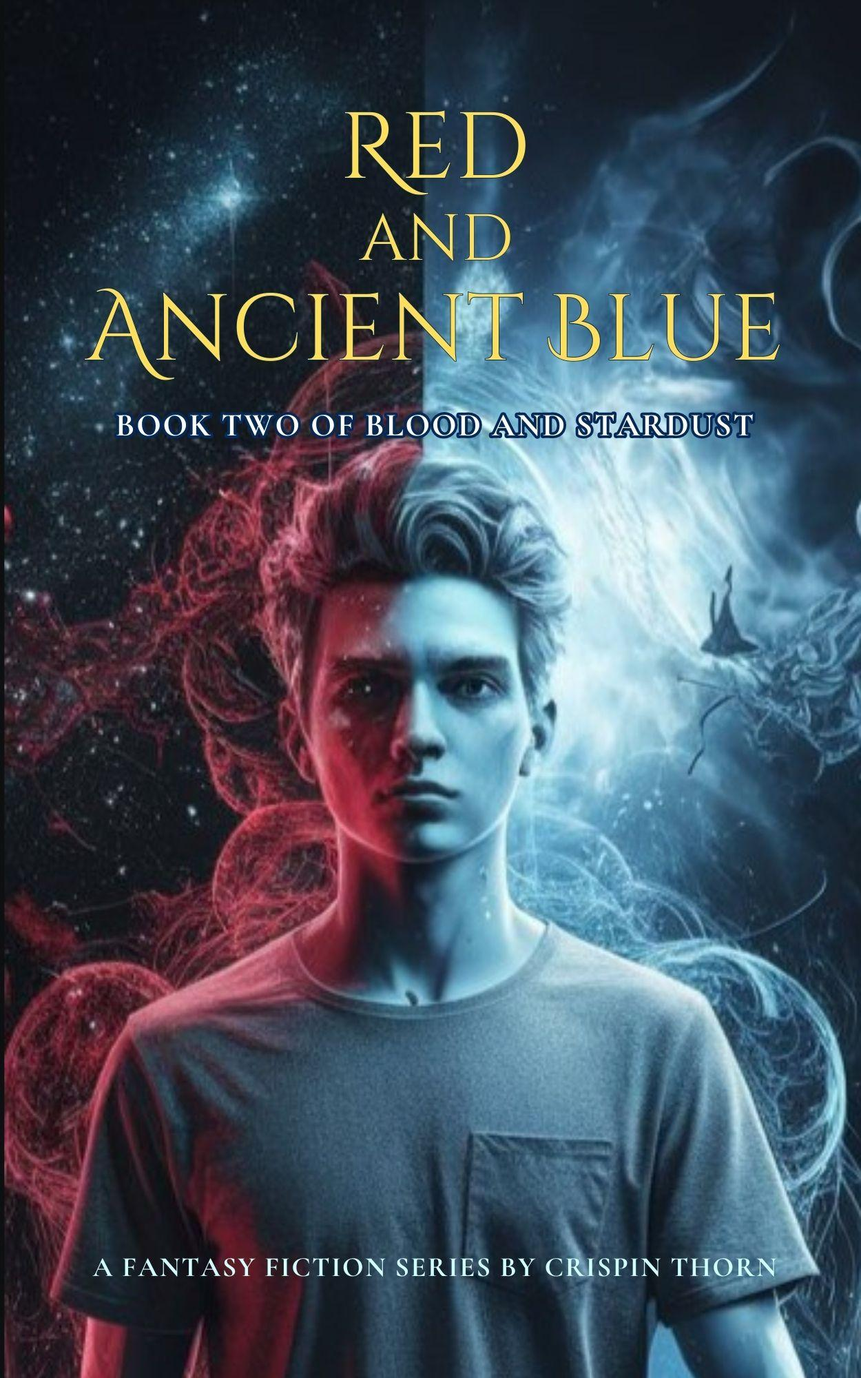
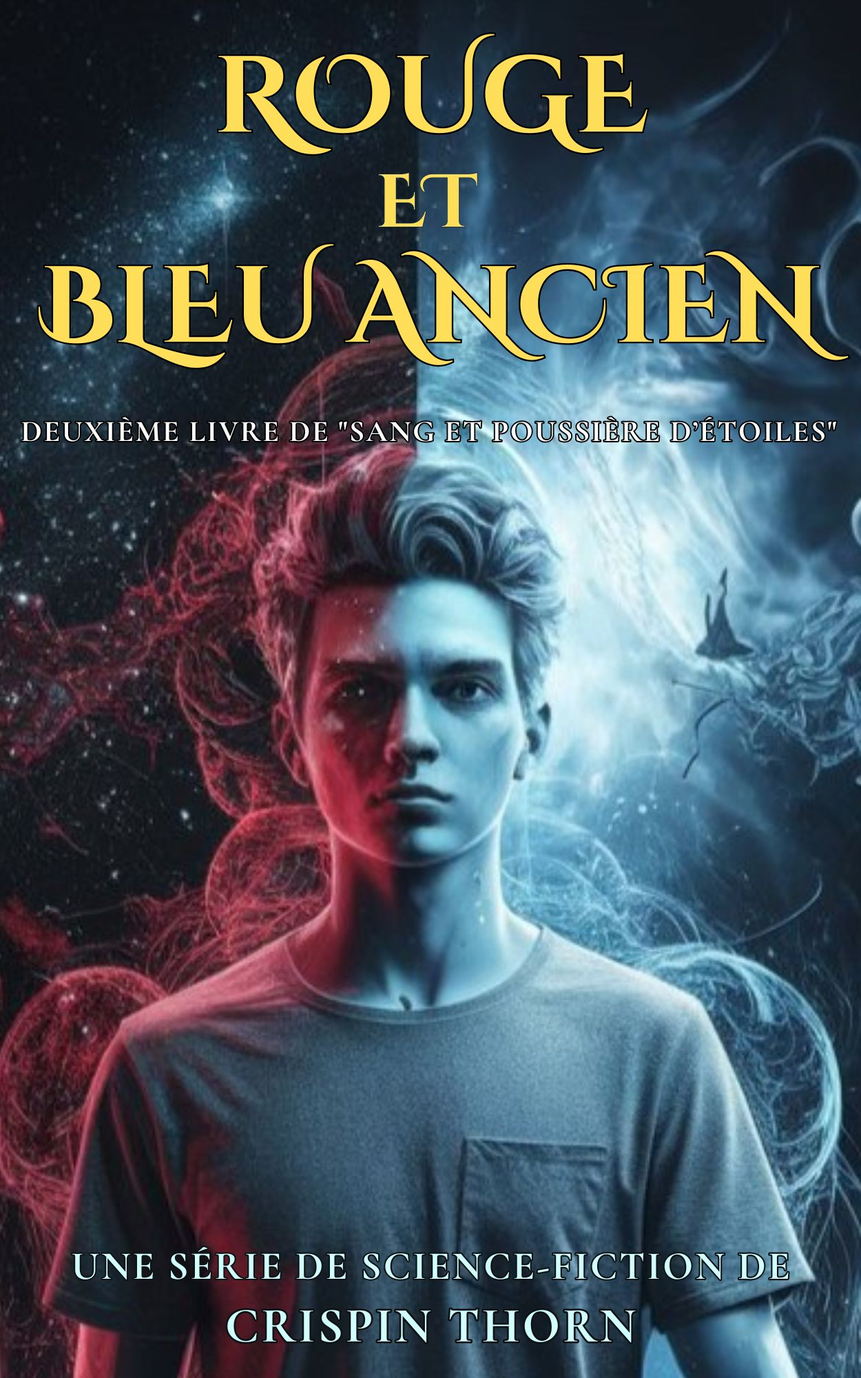
Оправих и френския

diff --git a/public/books/series/blood-and-stardust/fr/red-and-ancient-blue/description.md b/public/books/series/blood-and-stardust/fr/red-and-ancient-blue/description.md
@@ -1,27 +1,48 @@
-**_Red and Ancient Blue_** – the second book in **Crispin Thorn**'s sci-fi series *Blood and Stardust* – dives even deeper into themes of identity, civilizational clash, and survival amidst the complex relationships between **Lemurians**, **vampires**, and **humans**.
+# *Rouge et Bleu Ancien* – Le deuxième tome de la série de science-fiction *Sang et Poussière d'Étoiles* de Crispin Thorn
 
-**Timothy Harris**, an ordinary teenage boy from the small town of **Silverpine Hollow**, at first glance, discovers he possesses extraordinary abilities — and is the heir to the ancient **Lemurian** race. With the help of the enigmatic **Thalia**, a Lemurian herself, he begins training to master his newfound powers and understand his place in a world where danger lurks on all sides.
-
-As Timothy tries to balance his school life with his new role, the looming threat of the ancient alien **Xilarian** race grows ever closer. **Vampire clans** begin to take notice of him. **Lord Sebastian Mornau**, an ambitious vampire leader, sees Timothy as either a threat or a tool to further his own ambitions. Meanwhile, **Radu Vladislav**, Chairman of the Vampire Council, becomes entangled in political intrigues that threaten the fragile balance between the races.
-
-Allies like **Arya** — a Lemurian with a pivotal role in the saga — and **Peter Hammett** help Timothy undergo the ancient **Ka’rals’arn** ritual. This transformation will turn him into an **Archon**: a being capable of uniting Lemurians, vampires, and humans against their common enemy.
+*Rouge et Bleu Ancien* plonge encore plus profondément dans les thèmes de **l'identité**, du **choc des civilisations** et de la **lutte pour la survie** au cœur des relations complexes entre **Lémuriens**, **vampires** et **humains**.
 
 ---
 
-## Why Choose *Red and Ancient Blue*?
+### Un héritage ancien, un destin hors du commun
 
-### An Original and Multilayered Story  
-The plot blends identity, coming-of-age, and cultural conflict, expanding the universe of the first book with new characters, races, and tensions.
+**Timothy Harris**, en apparence un adolescent ordinaire du petit village de **Silverpine Hollow**, découvre qu'il possède des **capacités exceptionnelles** et qu'il est l'héritier de l'**ancienne race lémurienne**. 
 
-### Unforgettable Characters  
-**Timothy Harris** is a complex and charismatic protagonist on a journey of self-discovery filled with emotional and moral challenges. Strong female characters like **Thalia**, **Arya**, and the vampire **Serina** stand out with their depth and individuality.
-
-### Engaging Sci-Fi Elements  
-**Lemurian technology**, ancient rituals, and tense interactions with vampire clans build a believable yet mesmerizing world full of mystery and stakes.
-
-### Memorable Antagonists  
-**Sebastian Mornau** and **Serina Velmore** are more than villains — they’re multidimensional figures with personal goals and inner conflict. Alongside **Radu Vladislav**’s political maneuvering, they create a web of tension that challenges every side.
+Avec l'aide de la mystérieuse **Thalia**, également Lémurienne, il entame un entraînement pour **maîtriser ses nouveaux pouvoirs** et comprendre sa place dans un monde où les dangers rôdent de partout.
 
 ---
 
-*Red and Ancient Blue* delivers a gripping, immersive narrative that expands the world of *Blood and Stardust*, enriching it with new emotional and dramatic dimensions.
+### Entre adolescence, guerre interstellaire et tensions vampiriques
+
+Alors que Timothy tente de concilier **sa vie scolaire** et son **nouveau rôle**, la menace de l'ancienne race extraterrestre **Xilarien** plane sur lui, tandis que les **clans vampires** tournent leur attention vers lui.
+
+- **Lord Sébastian Mornaü**, un ambitieux leader vampire, le perçoit comme une menace… ou comme un outil pour ses propres desseins.  
+- **Radu Vladislav**, le président du Conseil des Vampires, est pris dans des **intrigues politiques complexes** qui menacent l'équilibre fragile entre les races.
+
+---
+
+### Le rituel Ka'rals'arn : une transformation décisive
+
+Des alliés comme **Arya** – une Lémurienne jouant un rôle clé dans la saga – et **Peter Hammett** aideront Timothy à traverser l'ancien **rituel Ka'rals'arn**. Cette transformation fera de lui un **Archonte** – une créature capable d'unir Lémuriens, vampires et humains contre leur ennemi commun.
+
+---
+
+## Pourquoi choisir *Rouge et Bleu Ancien* ?
+
+- **Une histoire originale et multicouche**  
+  L'intrigue mêle des thèmes d'identité, de maturation et de conflit culturel, tout en élargissant l'univers du premier tome avec de **nouveaux personnages**, **races** et **conflits**.
+
+- **Des personnages inoubliables**  
+  *Timothy Harris* est un protagoniste **complexe et charismatique**, dont le chemin vers la découverte de sa véritable nature est jonché de **dilemmes émotionnels** et **moraux**.  
+  Des figures féminines fortes comme **Thalia**, **Arya** et la vampire **Serena** apportent une **profondeur supplémentaire** et se distinguent par leur individualité.
+
+- **Des éléments de science-fiction captivants**  
+  La **technologie lémurienne**, les **rituels anciens** et les **interactions avec les clans vampires** construisent un monde crédible et fascinant, rempli de **tension** et de **mystère**.
+
+- **Des antagonistes mémorables**  
+  *Sébastian Mornaü* et *Serena Velmore* ne sont pas de simples ennemis, mais des **personnages multidimensionnels** avec leurs propres objectifs et luttes internes.  
+  Ajoutez à cela les **jeux politiques complexes** de *Radu Vladislav*, et l'histoire présente des **antagonistes à la fois intrigants et respectables**.
+
+---
+
+###*Rouge et Bleu Ancien* offre un **récit dynamique et captivant** qui enrichit l'univers de *Sang et Poussière d'Étoiles*, en y ajoutant de **nouvelles dimensions émotionnelles et dramatiques*.

diff --git a/public/books/series/blood-and-stardust/fr/cosmic-red/description.md b/public/books/series/blood-and-stardust/fr/cosmic-red/description.md
@@ -1,34 +1,49 @@
-# *Cosmic Red*  
-**The Third Book in the Epic Sci-Fi Series *Blood and Stardust***
+# *Rouge Cosmique* – Le troisième tome de l'épopée de science-fiction *Sang et Poussière d'Étoiles*
 
-Step into the dynamic and captivating world of **Crispin Thorn**, where human destinies, vampiric intrigues, and the ancient wisdom of the **Lemurians** collide with the looming threat of the **Xylar’n Armada**. *Cosmic Red* takes you on a thrilling cosmic journey as **Cassian Grey** faces a choice that will not only shape his fate but also determine the future of humanity itself.
-
-**Cassian**, a U.S. Army veteran and disabled soldier, finds himself at the center of both internal and external conflicts after ancient Lemurian technology shakes the very foundation of his identity. As the Xylar’n Armada approaches Saturn, he and his allies — humans, vampires, and Lemurians alike — must unite in a desperate battle for survival.
-
-Driven by the need to pilot an advanced **Lemurian starfighter**, Cassian must make a fateful decision:  
-- to become a **vampire**,  
-- to undergo **cybernetic and genetic modifications**,  
-- or to trust the **ancient alien technology** that could unlock unimaginable abilities.
-
-*Cosmic Red* is an intense and emotional **military sci-fi thriller** that will keep you on the edge of your seat until the very last page.  
-**Can Cassian uncover his true self, conquer his inner demons, and defend his world from annihilation?**
+Plongez dans l'univers dynamique et riche en nuances créé par **Crispin Thorn**, où les destins humains, les intrigues vampiriques et la sagesse ancestrale des **Lémuriens** s'entrelacent avec la menace glaçante de l'armada de l'**Empire Xilaren**.
 
 ---
 
-## Why Should You Read *Cosmic Red*?
+### Une odyssée galactique pleine de choix déchirants
 
-### A Unique and Multilayered Story  
-**Crispin Thorn** continues to expand the series with a riveting plot that explores human identity, personal struggles, and coexistence between different races.
+*Rouge Cosmique* vous embarque pour un **voyage spatial épique**, tandis que **Cassian Grey** – vétéran de l'armée américaine et soldat handicapé – est confronté à un **choix crucial** qui déterminera non seulement son propre destin, mais aussi l'avenir de l'humanité.
 
-### Memorable Characters  
-**Cassian**, **Serena**, **Loren** (now a colonel), **Sebastian Mornau**, and the rest of the cast draw you in with their complex dramas and rich character development.
-
-### Compelling Sci-Fi Elements  
-The wonders of **Lemurian technology**, **genetic advancements**, and **futuristic conflicts** add depth and authenticity to the story.
-
-### A Formidable Antagonist  
-The **Xylar’n** and their **Armada** invade the Solar System, bringing political intrigue and devastating plans that heighten the tension at every turn.
+Lorsqu'une **ancienne technologie lémurienne** ébranle les fondements de son identité, Cassian se retrouve au cœur d'un **conflit entre trois civilisations distinctes**. Alors que l'armada des Xilariens se rapproche de **Saturne**, lui et ses alliés – **humains**, **vampires** et **Lémuriens** – sont forcés d'unir leurs forces dans une **bataille désespérée pour la survie**.
 
 ---
 
-**Order *Cosmic Red* now** and embark on a breathtaking **cosmic odyssey**, where every choice carries the weight of the world’s fate!
+### Une transformation inévitable
+
+Face à la nécessité de piloter un **chasseur lémurien perfectionné**, Cassian doit faire un choix qui changera sa vie à jamais :
+
+- Accepter la **transformation vampirique**  
+- Subir des **modifications cybernétiques et génétiques**  
+- Ou se fier à une **mystérieuse technologie extraterrestre** capable de libérer des pouvoirs insoupçonnés  
+
+> Cassian parviendra-t-il à découvrir sa véritable nature, à surmonter ses démons intérieurs et à protéger la race humaine de l'anéantissement ?
+
+---
+
+### Un thriller militaire de science-fiction haletant
+
+*Rouge Cosmique* est un **thriller militaire de science-fiction** captivant, rempli de **drames émotionnels**, de **personnages complexes** et d'une **tension haletante jusqu'à la dernière page**.
+
+---
+
+## Pourquoi choisir *Rouge Cosmique* ?
+
+- **Une histoire originale et multicouche**  
+  Crispin Thorn approfondit la saga avec une intrigue palpitante explorant les thèmes de l'identité humaine, des luttes personnelles et de la coexistence interespèces.
+
+- **Des personnages inoubliables**  
+  Cassian, Serena, Loren, Sebastian et les autres personnages vous captiveront par leurs **destins complexes** et leur **évolution émotionnelle**.
+
+- **Des éléments de science-fiction convaincants**  
+  La **technologie lémurienne**, l'**ingénierie génétique** et les **batailles futuristes** apportent authenticité et profondeur à l'histoire.
+
+- **Des antagonistes mémorables**  
+  L'**armada des Xilariens** représente non seulement une menace militaire, mais aussi un **choc culturel** porteur d'intrigues, intensifiant la tension page après page.
+
+---
+
+### Commandez *Rouge Cosmique* dès aujourd'hui et plongez dans une **odyssée spatiale envoûtante**, où chaque décision pèse du poids du destin d'un monde entier !

diff --git a/public/books/series/blood-and-stardust/fr/steel-gray/description.md b/public/books/series/blood-and-stardust/fr/steel-gray/description.md
@@ -1,33 +1,45 @@
-# *Steel Gray*  
-**The Fourth Book in the Epic Sci-Fi Series *Blood and Stardust***
+# *Gris Acier* : Le quatrième tome de la saga épique *Sang et Poussière d'Étoiles*
 
-Immerse yourself in the dynamic and captivating world of **Crispin Thorne**, where human destinies, vampiric intrigues, and the ancient wisdom of the **Lemurians** collide with the looming threat of the **Xylar’n Armada**. *Steel Gray* takes you on a thrilling cosmic journey as the war escalates into an even more dangerous phase, and the revelation of ancient secrets threatens to change everything.
-
-As the elite Xylar’n operative **Sa’lays** uncovers truths that shake her own convictions, the young **Archon Timothy** struggles under the weight of responsibility, seeking guidance from the wisdom of the past. On Earth, the Lemurian **Thalia** faces an impossible choice while investigating mysterious Xylar’n outposts and confronting forbidden technology. Meanwhile, **Arya** races against time to decipher the secrets of Xylar’n power, while **Colonel Loren Ashton** and **Lord Sebastian Mornau** lead a desperate battle for survival on the Lunar Base and Earth against a full-scale Xylar’n invasion.  
-Six fates intertwine in a web of lies, betrayals, and ancient secrets.
-
-Yet, as the heroes fight on different fronts, something stirs in the shadows — a threat older and more terrifying than anything they’ve imagined, poised to consume not just Earth, but the entire galaxy.  
-**Will they uncover the truth and find a path to salvation before it’s too late?**
-
-*Steel Gray* is a gripping and emotional **military sci-fi thriller** that will keep you on the edge of your seat until the final page.  
-**Can the heroes overcome their differences, unveil the secrets of the past, and protect their world from annihilation?**
+Plongez dans l'univers envoûtant de **Crispin Thorne**, où les destins humains, les intrigues vampiriques et la sagesse ancestrale des **Lémuriens** convergent face à la menace grandissante de l'**Armada xilarienne**. *Gris Acier* vous entraîne dans une épopée spatiale haletante alors que la guerre entre dans une phase plus périlleuse encore, et où la révélation d'anciens secrets menace de tout bouleverser.
 
 ---
 
-## Why Read *Steel Gray*?
+### Un conflit aux multiples visages
 
-### A Unique, Multi-Layered Story  
-**Crispin Thorne** expands the series with a riveting plot that explores war, peace, betrayal, loyalty, and the clash of ancient civilizations.
+Tandis que **Sa'lays**, l'élite du renseignement xilarien, découvre des vérités qui ébranlent ses certitudes, le jeune **Archonte Timothy** lutte sous le poids de ses responsabilités et cherche à percer la sagesse du passé. 
 
-### Memorable Characters  
-**Sa’lays**, **Timothy**, **Thalia**, **Arya**, **Loren**, **Sebastian**, and others draw you in with their complex dramas, inner conflicts, and rich character development.
+Sur Terre, la Lémurienne **Thalia** est confrontée à un choix impossible, enquêtant sur des bases xilariennes mystérieuses et tombant sur une technologie interdite. 
 
-### Captivating Sci-Fi Elements  
-The marvels of **Lemurian technology**, the mysteries of **Xylar’n power**, **epic space battles**, and **futuristic conflicts** add depth and authenticity to the story.
+Parallèlement, **Arya** court contre la montre pour percer les secrets de la puissance xilarienne, tandis que le **Colonel Loren Ashton** et le **Lord Sebastian Mornau** mènent une bataille désespérée pour la survie de la **Base Lunaire** et de la Terre face à une invasion massive. 
 
-### Multi-Level Threats  
-The **Xylar’n armada** and their invasion, combined with political intrigue, betrayals, and an enigmatic ancient menace, keep tension at a breaking point.
+> Six destins s'entrelacent dans une toile de mensonges, de trahisons et de mystères anciens.
 
 ---
 
-**Order *Steel Gray* now** and dive into a breathtaking **cosmic odyssey** where every choice carries the weight of the galaxy’s fate!
+### Une menace tapie dans l’ombre
+
+Mais tandis que les héros luttent sur différents fronts, une menace bien plus ancienne et redoutable que tout ce qu'ils auraient pu imaginer se tapit dans l'ombre, prête à engloutir non seulement la Terre, mais toute la galaxie.
+
+**Nos héros parviendront-ils à dévoiler la vérité et à trouver le chemin du salut avant qu'il ne soit trop tard ?**
+
+---
+
+### Un thriller militaire et scientifique
+
+*Gris Acier* est un **thriller militaire et scientifique** captivant et émouvant, qui vous tiendra en haleine jusqu'à la dernière page.
+
+> Nos héros pourront-ils surmonter leurs différences, percer les secrets du passé et protéger leur monde de l'anéantissement ?
+
+---
+
+## Pourquoi lire *Gris Acier* ?
+
+- Une intrigue haletante aux ramifications interstellaires  
+- Des personnages complexes, tiraillés entre devoir et émotion  
+- Des révélations anciennes qui changent le cours de l’histoire  
+- Une écriture immersive et riche en suspense  
+
+---
+
+### Commandez *Gris Acier* dès maintenant et embarquez pour une **odyssée cosmique à couper le souffle** où chaque choix pèse sur le destin de la galaxie !
+

diff --git a/public/books/series/blood-and-stardust/fr/ancient-blue/description.md b/public/books/series/blood-and-stardust/fr/ancient-blue/description.md
@@ -1,32 +1,43 @@
-**_Ancient Blue_** is a science fiction novel blending romance and adventure that marks the beginning of the *Blood and Stardust* series.  
-Step into the dynamic, multilayered world crafted by **Crispin Thorn**, where humanity's origins and the clash of ancient civilizations take center stage.
+# *Bleu Ancien* – Le début de la série de science-fiction *Sang et Poussière d'Étoiles*
 
-
-*Ancient Blue* introduces **Peter Hammett**, a geologist and spelunker who discovers **Arya** — a representative of an ancient alien race trapped in time. Arya is on a quest to find a key capable of activating a forgotten defense system designed to counter the alien **Xylar’n** race, whose looming threat is rising once more.
-
-As Arya and Peter journey from forgotten caves in the Grand Canyon to secret archives in New York and Louisiana, they face powerful enemies — both human and alien.
-
-With ancient secrets surfacing and tension growing between the protagonists, Peter and Arya uncover not just the truth about the Xylar’n but also a bond that could forever change their destinies.
-
-*Ancient Blue* is a gripping sci-fi thriller packed with emotional drama, complex characters, and edge-of-your-seat tension.  
-**Will Arya find the "key" and activate the Solar System's Defense System in time?**
+*Bleu Ancien* est un **roman de science-fiction mêlant romance et aventure** qui marque le **début de la série** imaginée par **Crispin Thorn**, où les **origines de l'humanité** et le **choc des civilisations anciennes** prennent une place centrale.
 
 ---
 
-## Why Choose *Ancient Blue*?
+### Une rencontre hors du temps, une menace imminente
 
-### An Original and Multilayered Story  
-In *Ancient Blue*, **Crispin Thorn** weaves elements of archaeological mystery, science fiction, and adventure into a compelling narrative. The plot explores questions about the origins of life, human identity, and the cultural clashes between civilizations.
-
-### Unforgettable Characters  
-**Peter** and **Arya** are deeply layered protagonists who experience emotional and moral growth throughout the story. Their dynamic forms the heart of the narrative, blending the high stakes of their mission with the strength of their personal connection.
-
-### Rich Sci-Fi Elements  
-Vividly described sci-fi concepts enrich the plot and create an immersive world that pulls readers in completely.
-
-### Memorable Antagonists  
-From the cunning and manipulative Xylar’n agent **Fir’lan** to the ambitious and ruthless collector **Damon Crowley**, the story’s villains are as multidimensional and captivating as its heroes.
+*Bleu Ancien* présente **Peter Hammett**, un géologue et spéléologue qui découvre **Arya**, une représentante d'une **ancienne race extraterrestre** piégée dans le temps.  
+Arya est en quête d'une **clé** capable d'activer un **système de défense oublié**, conçu pour contrer la race alien **Xilarien**, dont la **menace grandissante** resurgit.
 
 ---
 
-*Ancient Blue* delivers a captivating tale of ancient mysteries, alien intrigue, and the impossible love that blossoms between two worlds.
+### Une odyssée entre mondes souterrains et secrets anciens
+
+Alors qu'Arya et Peter voyagent des **grottes oubliées du Grand Canyon** aux **archives secrètes de New York et de Louisiane**, ils affrontent de **puissants ennemis** — humains comme extraterrestres.
+
+Entre **secrets anciens** et **tension croissante**, Peter et Arya découvrent non seulement la **vérité sur les Xilariens**, mais aussi un **lien profond** qui pourrait bouleverser leurs destins à jamais.
+
+> *Bleu Ancien* est un **thriller de science-fiction haletant**, empreint de **drame émotionnel**, de **personnages complexes** et d'une **tension palpable**.  
+> Arya trouvera-t-elle la **clé** et parviendra-t-elle à **activer le Système de Défense Solaire à temps** ?
+
+---
+
+## Pourquoi choisir *Bleu Ancien* ?
+
+- **Une histoire originale et riche**  
+  Crispin Thorn entremêle avec brio **mystère archéologique**, **science-fiction** et **aventure** dans un récit captivant.  
+  L'intrigue explore des **questions sur les origines de la vie**, l'**identité humaine** et les **conflits culturels entre civilisations**.
+
+- **Des personnages inoubliables**  
+  *Peter* et *Arya* sont des protagonistes **profondément nuancés**, en proie à une **évolution émotionnelle et morale** tout au long du récit.  
+  Leur dynamique forme le **cœur de l'histoire**, mêlant **enjeux planétaires** et **liens personnels intenses**.
+
+- **Des éléments de science-fiction saisissants**  
+  Des **concepts sci-fi minutieusement décrits** enrichissent l'intrigue et créent un **monde immersif** qui captive le lecteur.
+
+- **Des antagonistes mémorables**  
+  De l'agent xilarien **rusé et manipulateur Fir'lan** au collectionneur **ambitieux et impitoyable Damon Crowley**, les antagonistes sont tout aussi **complexes et fascinants** que les héros.
+
+---
+
+### *Bleu Ancien* offre un **récit captivant** sur des **mystères ancestraux**, des **intrigues extraterrestres** et un **amour impossible** né entre deux mondes.

diff --git a/public/books/series/blood-and-stardust/bg/description.md b/public/books/series/blood-and-stardust/bg/description.md
@@ -1,1 +1,1 @@
-The fantasy series raises the question: What if they, the autistic individuals, live in another world? Could that explain their typical behavior? Could it be somehow connected to their genius? Aren't they laughing at us while living for hundreds of years in that other world... 
+**Кръв и Звезден прах** е епична научнофантастична сага, която съчетава древни загадки, изгубени цивилизации и извънземни заплахи. От пробуждането на Аря – лемурийка, хваната в капана на времето – до пътя на тийнейджър, който открива истинската си същност, всяка книга разкрива нов пласт от забравена война между човечеството и ксиларианите. Чрез неочаквани съюзи и отчаяни битки героите трябва да защитят Земята от враг, завръщащ се от звездите. Вълнуващо космическо приключение, в което науката, магията и съдбата се преплитат.

diff --git a/public/books/series/blood-and-stardust/de/description.md b/public/books/series/blood-and-stardust/de/description.md
@@ -1,1 +1,1 @@
-Die Fantasyserie stellt die Frage: Was wäre, wenn sie - die autistischen Menschen - in einer anderen Welt leben? Könnte das ihr typisches Verhalten erklären? Könnte es irgendwie mit ihrem Genie zusammenhängen? Lachen sie vielleicht über uns, während sie in jener anderen Welt Hunderte von Jahren leben …
+**Blut und Sternenstaub** ist eine epische Science-Fiction-Saga, die uralte Geheimnisse, untergegangene Zivilisationen und außerirdische Bedrohungen vereint. Vom Erwachen Aryas – einer in der Zeit gefangenen Lemurierin – bis zur Reise eines Teenagers, der seine wahre Herkunft entdeckt, enthüllt jeder Band ein neues Kapitel eines vergessenen Krieges zwischen der Menschheit und den Xylar’n. Durch unerwartete Allianzen und verzweifelte Kämpfe müssen die Helden die Erde vor einem Feind schützen, der aus den Sternen zurückkehrt. Ein fesselndes Weltraumabenteuer, in dem sich Wissenschaft, Magie und Schicksal vereinen.

diff --git a/public/books/series/blood-and-stardust/fr/description.md b/public/books/series/blood-and-stardust/fr/description.md
@@ -1,1 +1,1 @@
-The fantasy series raises the question: What if they, the autistic individuals, live in another world? Could that explain their typical behavior? Could it be somehow connected to their genius? Aren't they laughing at us while living for hundreds of years in that other world... 
+**Sang et Poussière d'Étoiles** est une saga de science-fiction épique mêlant mystères anciens, civilisations disparues et menaces extraterrestres. De l’éveil d’Arya, une Lémurienne piégée dans le temps, à la quête d’un adolescent qui découvre sa véritable nature, chaque tome dévoile un pan d’une guerre oubliée entre l’humanité et les Xylar’n. À travers alliances inattendues et combats désespérés, les héros doivent protéger la Terre d’un ennemi revenu des étoiles. Une aventure cosmique haletante où se mêlent science, magie et destin.

diff --git a/public/books/series/blood-and-stardust/en/description.md b/public/books/series/blood-and-stardust/en/description.md
@@ -1,1 +1,1 @@
-The fantasy series raises the question: What if they, the autistic individuals, live in another world? Could that explain their typical behavior? Could it be somehow connected to their genius? Aren't they laughing at us while living for hundreds of years in that other world... 
+**Blood and Stardust** is an epic science fiction saga blending ancient mysteries, lost civilizations, and alien threats. From the awakening of Arya, a time-trapped Lemurian, to the journey of a teenager discovering his true identity, each volume reveals a new layer of a forgotten war between humanity and the Xylar’n. Through unlikely alliances and desperate battles, the heroes must protect Earth from an enemy returning from the stars. A gripping cosmic adventure where science, magic, and destiny intertwine.
